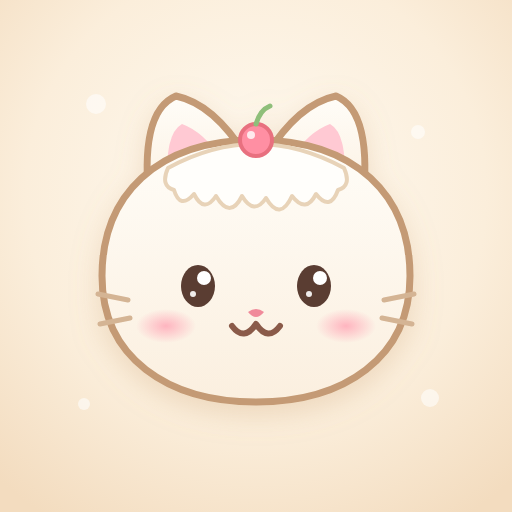
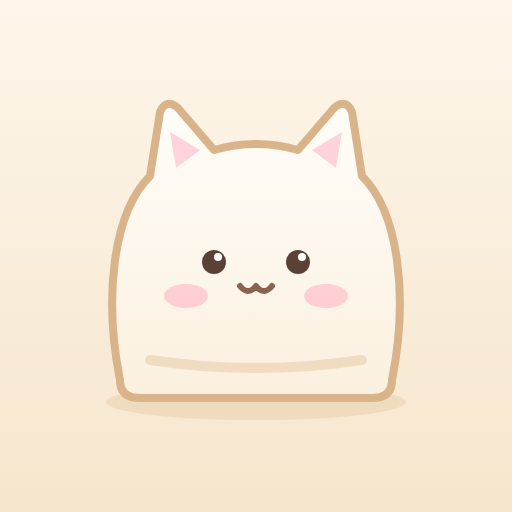
图标换成奶油吐司猫
Claude-Session: https://claude.ai/code/session_01Kju9AuUhCjB8j9UKvKX9Kv

diff --git a/index.html b/index.html
@@ -98,8 +98,8 @@
       if (ok) navigator.serviceWorker.register("./sw.js", { scope: "./", updateViaCache: "none" }).catch(function () {});
     })();
   </script>
-  <link rel="icon" href="icons/icon-192.png?v=4" type="image/png" sizes="192x192">
-  <link rel="apple-touch-icon" href="icons/apple-touch-icon.png?v=4">
+  <link rel="icon" href="icons/icon-192.png?v=5" type="image/png" sizes="192x192">
+  <link rel="apple-touch-icon" href="icons/apple-touch-icon.png?v=5">
   <title>Meow</title>
   <!-- 首帧与浅色开屏同色，避免 style.css 加载前闪色 -->
   <style>

diff --git a/sw.js b/sw.js
@@ -1,4 +1,4 @@
-const CACHE_NAME = "xxj-pwa-v294";
+const CACHE_NAME = "xxj-pwa-v295";
 const KEEPALIVE_PERIODIC_TAG = "xxj-keepalive";
 const SCHEDULE_IDB = "xxj_sw_schedule";
 const SCHEDULE_STORE = "due";
